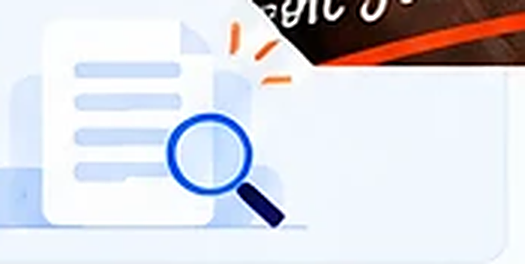
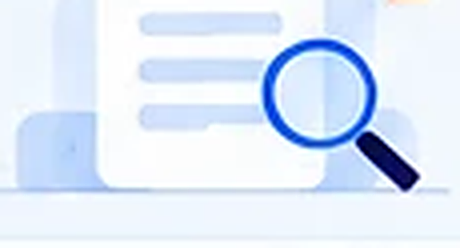
Three crops that carried more of her file than the artwork
Each of them was cut a little too wide and brought a neighbour along.

The band at the foot took in the top of her dark footer, so a black strip
with a logo in it sat under the flowers. The support agent took in the
rounded corner of the card she stands beside, which drew a second white
card inside the first. The illustration in the search box took in the
tail of the handwriting that runs over it on her page, so a brown corner
and an orange stroke appeared in the middle of a light blue drawing.

Recut to the artwork alone, and the three sizes that depend on them
follow: the band is 138 against her 136, the help card 136 against 134.

diff --git a/resources/views/public/faq.blade.php b/resources/views/public/faq.blade.php
@@ -50,7 +50,7 @@
         background: #fefdff; border: 1px solid #e4effc; border-radius: calc(14 * var(--u));
         padding: calc(18 * var(--u)) calc(22 * var(--u)) calc(20 * var(--u)); overflow: hidden; }
     .fq-search-art { position: absolute; right: calc(16 * var(--u)); top: calc(10 * var(--u));
-        width: calc(175 * var(--u)); height: calc(88 * var(--u));
+        width: calc(156 * var(--u)); height: calc(84 * var(--u));
         background-image: url('{{ asset('images/faq/search-art.png') }}');
         background-size: 100% 100%; background-repeat: no-repeat; }
     .fq-searchrow { position: relative; z-index: 2; display: flex; max-width: calc(760 * var(--u));
@@ -157,8 +157,9 @@
     /* ── Still need help ──────────────────────────────────────── */
     .fq-help { position: relative; margin-top: calc(22 * var(--u)); background: #fafcfe;
         border: 1px solid #e7eef8; border-radius: calc(13 * var(--u)); overflow: hidden;
-        display: grid; grid-template-columns: calc(120 * var(--u)) minmax(0, 1fr) auto calc(120 * var(--u));
-        align-items: center; gap: calc(14 * var(--u)); padding: calc(26 * var(--u)) calc(20 * var(--u)); }
+        display: grid; grid-template-columns: calc(120 * var(--u)) minmax(0, 1fr) auto calc(92 * var(--u));
+        align-items: center; gap: calc(14 * var(--u)); padding: calc(26 * var(--u)) calc(20 * var(--u));
+        }
     .fq-help .head { display: flex; justify-content: center; color: #1565e8; }
     .fq-help .head svg { width: calc(66 * var(--u)); height: calc(66 * var(--u)); }
     .fq-help h3 { font-size: calc(25 * var(--u)); font-weight: 800; color: #0b1340; margin: 0 0 calc(4 * var(--u)); }
@@ -183,7 +184,7 @@
         -webkit-mask-image: linear-gradient(270deg, transparent 0, #000 18%);
         mask-image: linear-gradient(270deg, transparent 0, #000 18%); }
     .fq-cta-in { position: relative; z-index: 2; display: flex; align-items: center; justify-content: flex-end;
-        gap: calc(28 * var(--u)); padding: calc(18 * var(--u)) 0 calc(18 * var(--u)) 17%; flex-wrap: nowrap; }
+        gap: calc(28 * var(--u)); padding: calc(12 * var(--u)) 0 calc(12 * var(--u)) 17%; flex-wrap: nowrap; }
     .fq-cta h2 { font-size: calc(28 * var(--u)); font-weight: 800; color: #0b1340; margin: 0 0 calc(7 * var(--u)); }
     .fq-cta p { font-size: calc(16.5 * var(--u)); color: #3f4a63; line-height: 1.45; margin: 0;
         max-width: calc(500 * var(--u)); }
